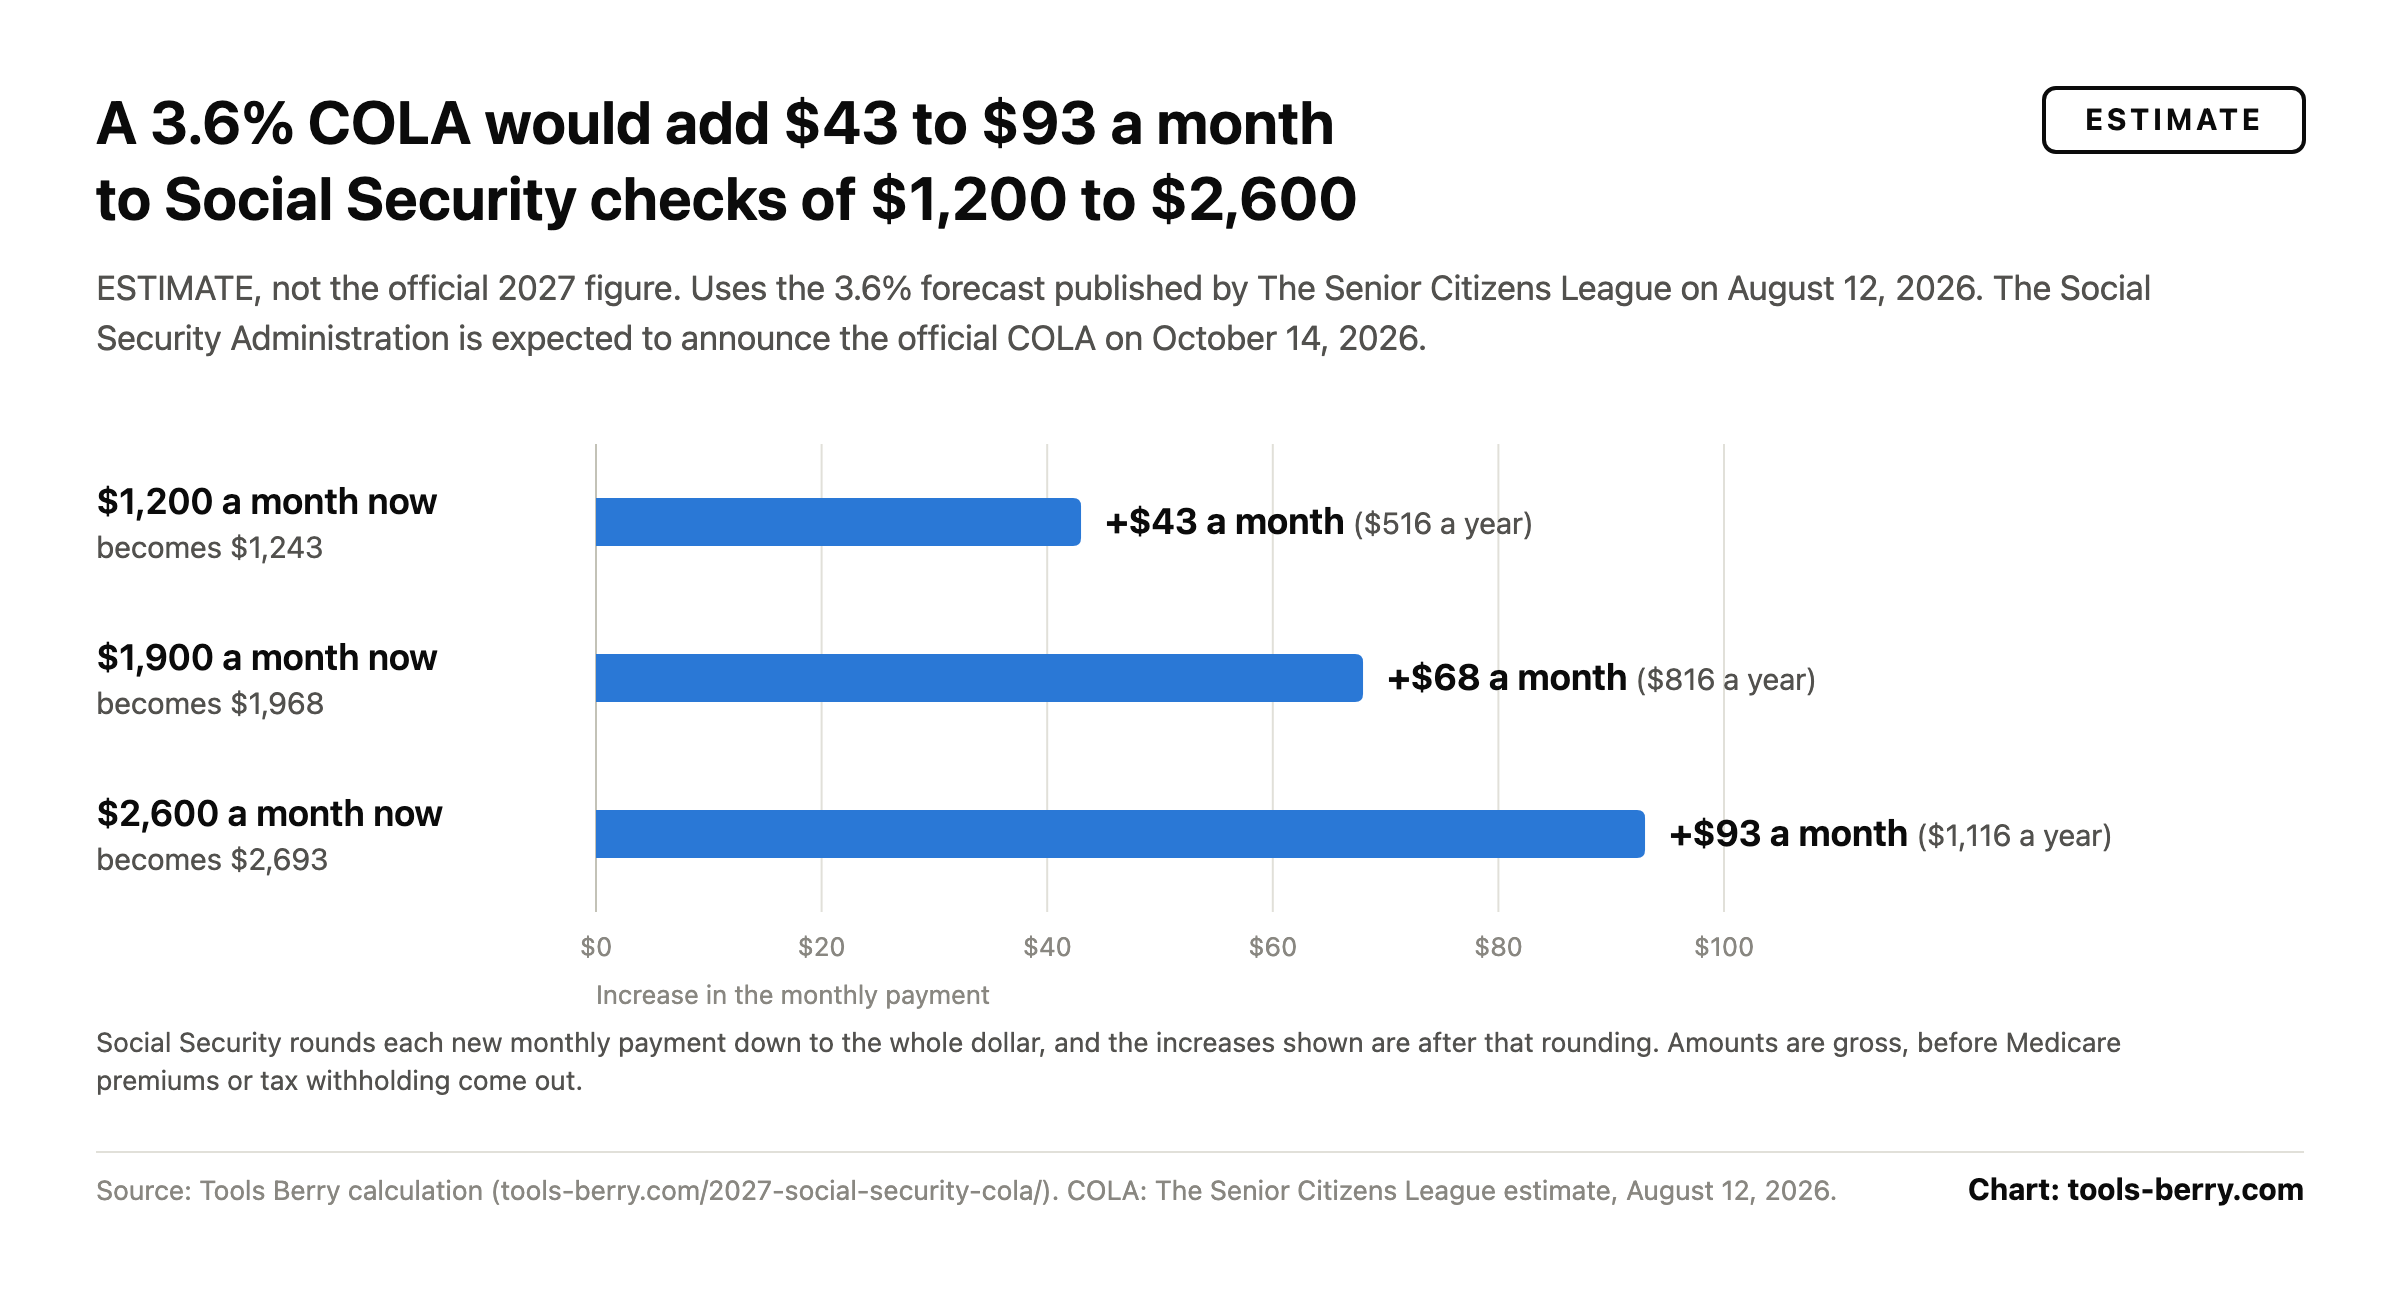
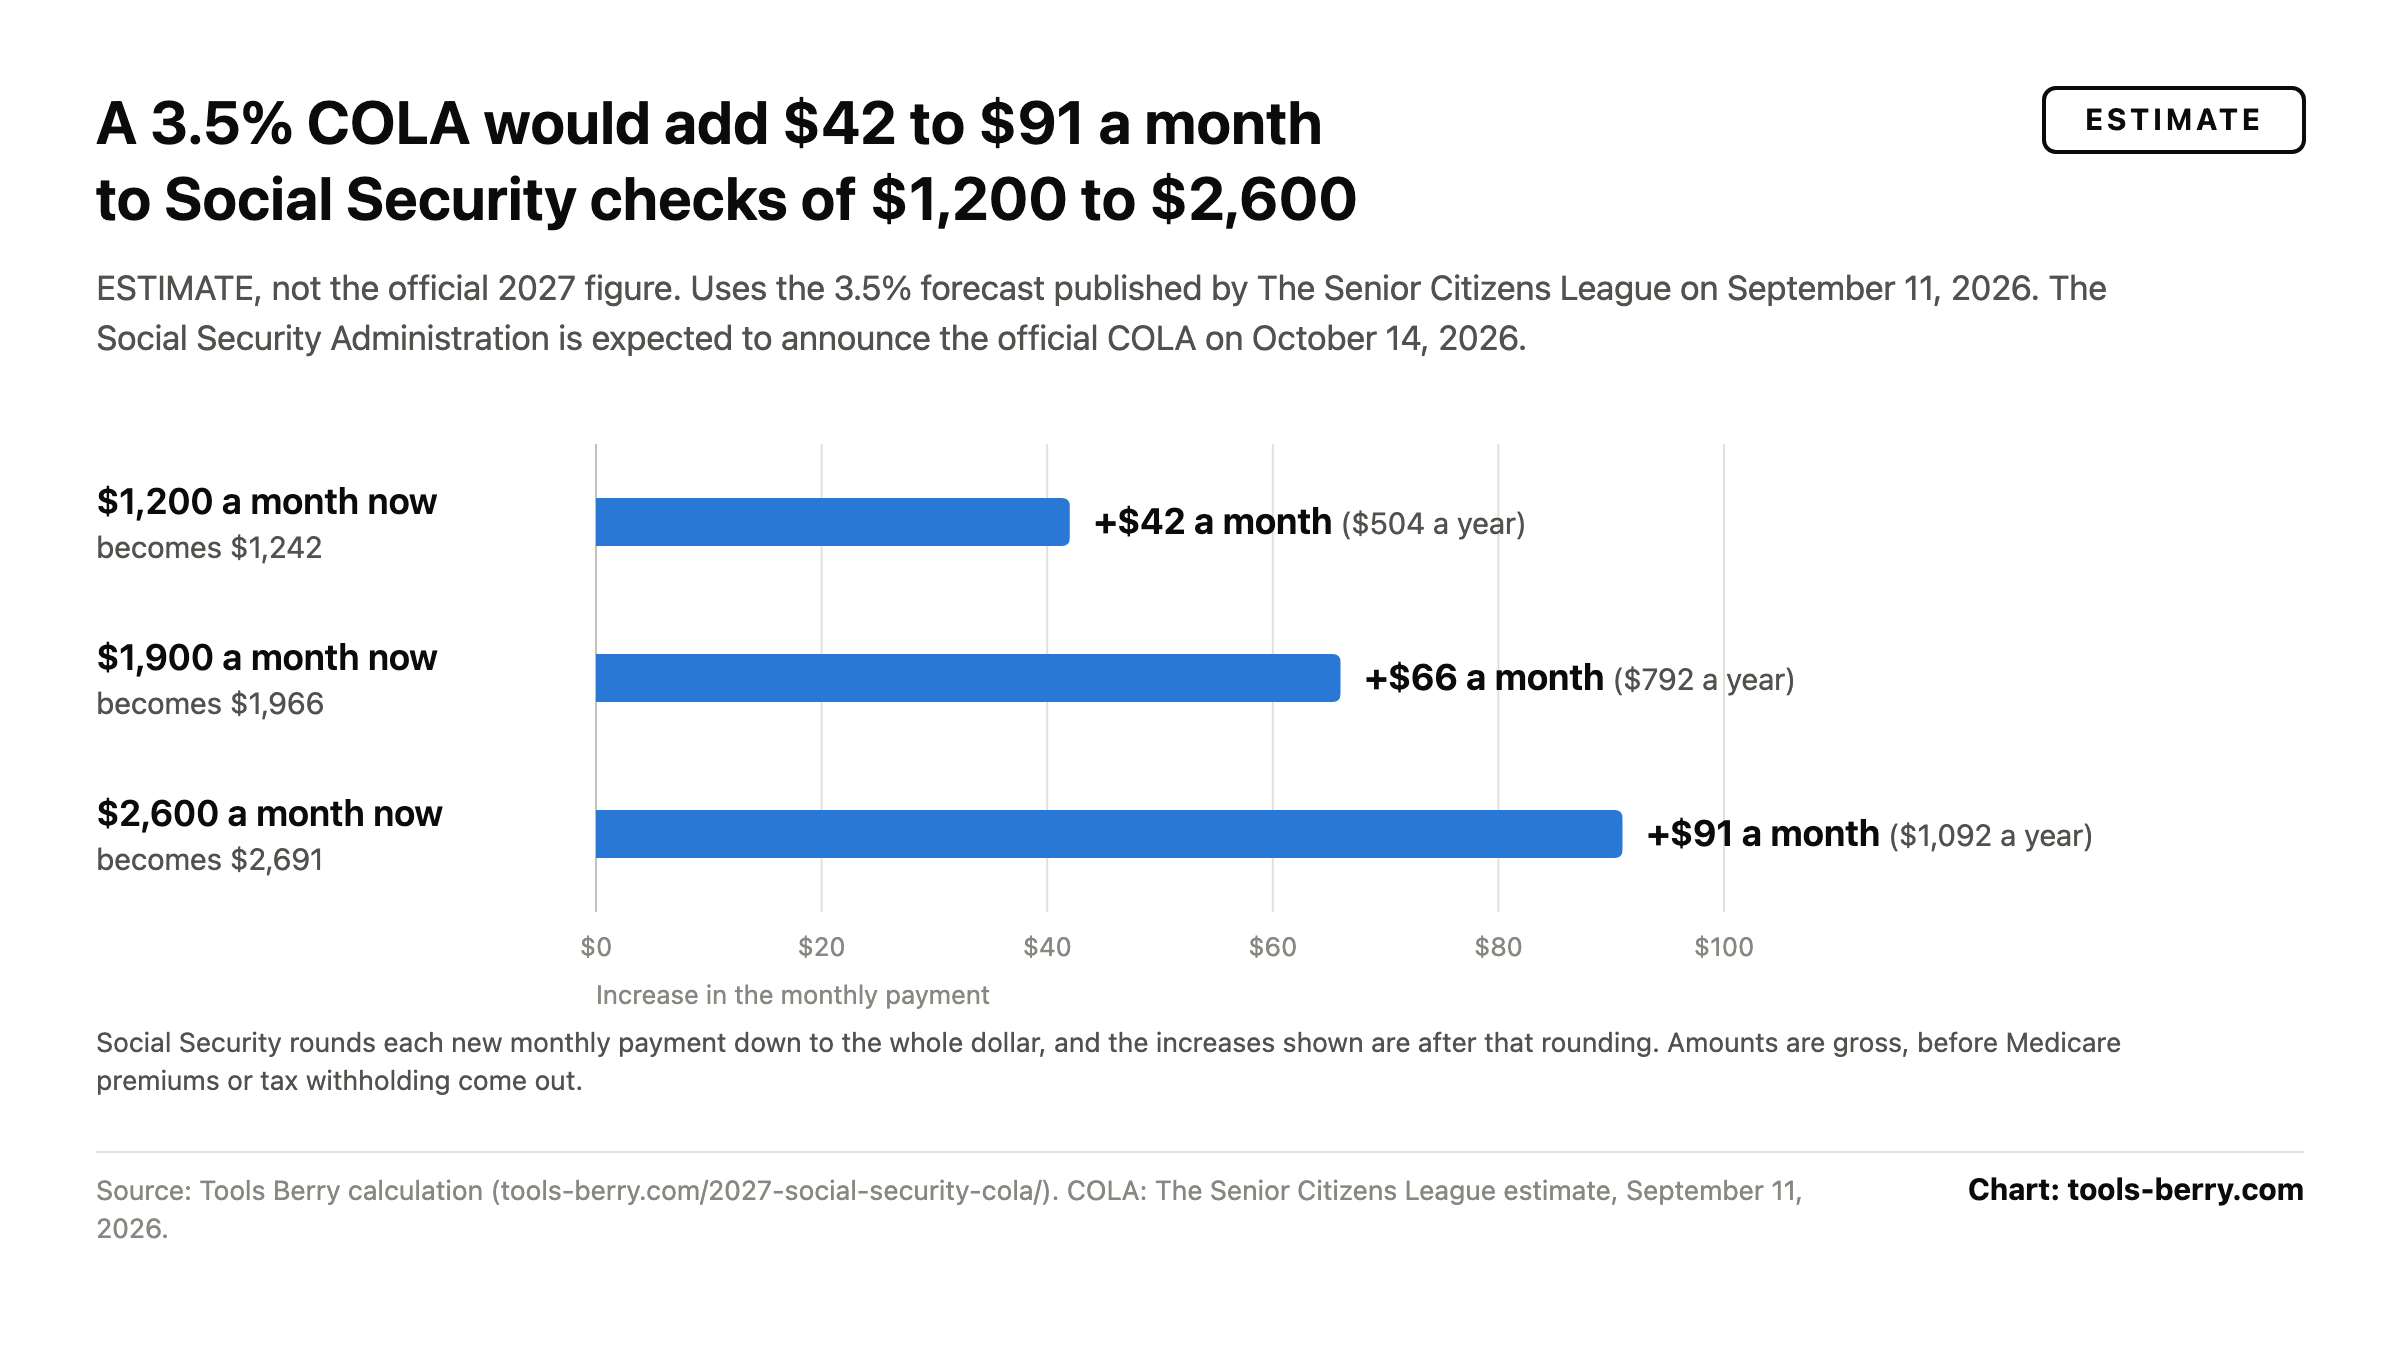
Use TSCL's final 3.5% COLA prediction on the COLA page, its sources and the press kit

diff --git a/docs/press-kit/pitch-templates.md b/docs/press-kit/pitch-templates.md
@@ -22,7 +22,7 @@ Fill from (after regeneration):
 | `[$X]` | `cola.rows[0].monthlyIncrease` (the $1,200 check) |
 | `[$Y]` | `cola.rows[2].monthlyIncrease` (the $2,600 check) |
 
-At today's 3.6% estimate these would read $43 and $93. Do not send this variant
+At today's 3.5% estimate (TSCL's final) these would read $42 and $91. Do not send this variant
 with the estimate: it says "today's raise", which is only true on the day.
 
 ## Variant B: IRS day (2027 inflation adjustments, any day Oct 9 to Nov 9)
